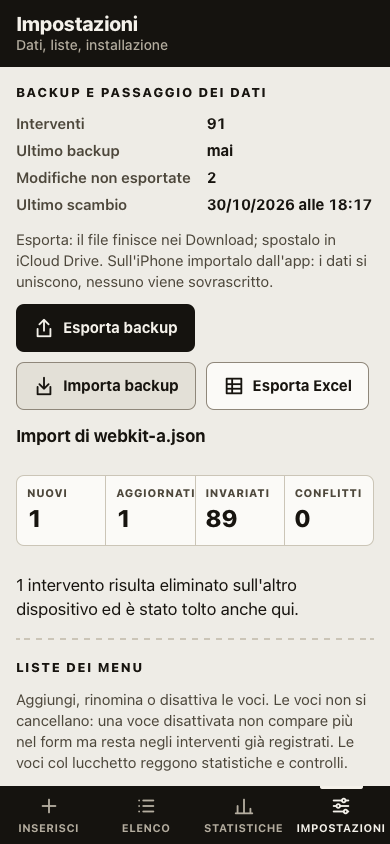
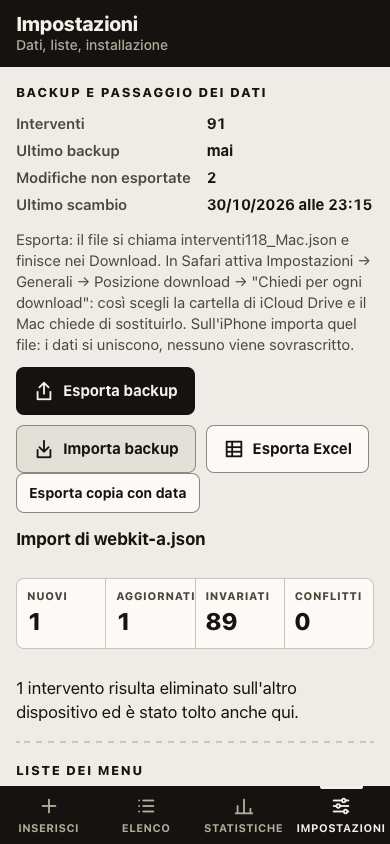
Impostazioni: esportazioni con nome fisso, copia con data, istruzioni per Safari e Chrome

diff --git a/js/ui/impostazioni.js b/js/ui/impostazioni.js
@@ -1,8 +1,8 @@
 // Impostazioni: backup e passaggio dei dati, liste dei menu, archiviazione, installazione.
 import {
-  stato, interventi, importaBackup, backupCorrente, registraEsportazione, aggiornaListe, nomeDispositivo, isIOS,
+  stato, interventi, importaBackup, backupCorrente, registraEsportazione, aggiornaListe, nomeDispositivo, tipoDispositivo, isIOS,
 } from '../stato.js';
-import { leggiBackup, nomeFileBackup } from '../core/merge.js';
+import { leggiBackup, nomeFileBackup, nomeFileDatato } from '../core/merge.js';
 import { aggiungiVoce, rinominaVoce, impostaAttiva, campiDellaLista } from '../core/liste.js';
 import { creaCartellaExcel } from '../core/excel.js';
 import { h, riempi, icona, impostaBanda, toast, conteggio, istante, dataBreve } from './dom.js';
@@ -17,19 +17,28 @@ const NOMI_LISTE = {
 let listaScelta = 'ospedale';
 let ultimoEsitoImport = null;
 
-/** Esporta il backup JSON (usato anche dal promemoria). */
-export async function esportaBackup() {
+const TOAST_BACKUP = { condiviso: 'Backup pronto: controlla di averlo salvato su File', salvato: 'Backup salvato', scaricato: 'Backup scaricato' };
+const TOAST_EXCEL = { condiviso: 'File Excel pronto', salvato: 'File Excel salvato', scaricato: 'File Excel scaricato' };
+const haFinestraSalvataggio = () => typeof window.showSaveFilePicker === 'function';
+
+async function salvaBackup(nome, opzioni) {
   try {
     const adesso = new Date();
     const blob = new Blob([JSON.stringify(backupCorrente(adesso))], { type: 'application/json' });
-    const come = await salvaFile(blob, nomeFileBackup(adesso));
+    const come = await salvaFile(blob, nome, opzioni);
     if (come === 'annullato') return;
     await registraEsportazione(adesso);
-    toast(come === 'condiviso' ? 'Backup pronto: controlla di averlo salvato su File' : 'Backup scaricato');
+    toast(TOAST_BACKUP[come]);
   } catch (errore) {
     toast(`Backup non riuscito: ${errore.message}`);
   }
 }
+
+/** Esporta il backup JSON con il nome fisso del dispositivo (usato anche dal promemoria). */
+export const esportaBackup = () => salvaBackup(nomeFileBackup(tipoDispositivo()), { ricordo: 'fileBackup' });
+
+/** Copia storica con data e ora nel nome: mai ricordata, la finestra si apre ogni volta. */
+const esportaCopiaDatata = () => salvaBackup(nomeFileDatato());
 
 async function esportaExcel() {
   try {
@@ -37,11 +46,17 @@ async function esportaExcel() {
     const XLSX = window.XLSX;
     const dati = XLSX.write(creaCartellaExcel(XLSX, stato.record), { type: 'array', bookType: 'xlsx' });
     const blob = new Blob([dati], { type: 'application/vnd.openxmlformats-officedocument.spreadsheetml.sheet' });
-    const come = await salvaFile(blob, nomeFileBackup(new Date()).replace(/\.json$/, '.xlsx'));
-    if (come !== 'annullato') toast(come === 'condiviso' ? 'File Excel pronto' : 'File Excel scaricato');
+    const come = await salvaFile(blob, nomeFileBackup(tipoDispositivo(), 'xlsx'), { ricordo: 'fileExcel' });
+    if (come !== 'annullato') toast(TOAST_EXCEL[come]);
   } catch (errore) {
     toast(`Export Excel non riuscito: ${errore.message}`);
   }
+}
+
+function spiegazioneBackup() {
+  if (isIOS()) return 'Esporta: si apre la condivisione, scegli "Salva su File" e la stessa cartella di iCloud Drive dell\'altra volta: iOS chiede di sostituire interventi118_iPhone.json. Sul Mac importa quel file: i dati si uniscono, nessuno viene sovrascritto.';
+  if (haFinestraSalvataggio()) return 'Esporta: la prima volta scegli dove salvare interventi118_Mac.json, per esempio in iCloud Drive; le volte dopo l\'app lo riscrive lì da sola. Sull\'iPhone importa quel file: i dati si uniscono, nessuno viene sovrascritto.';
+  return 'Esporta: il file si chiama interventi118_Mac.json e finisce nei Download. In Safari attiva Impostazioni → Generali → Posizione download → "Chiedi per ogni download": così scegli la cartella di iCloud Drive e il Mac chiede di sostituirlo. Sull\'iPhone importa quel file: i dati si uniscono, nessuno viene sovrascritto.';
 }
 
 export function mostra(main) {
@@ -59,14 +74,14 @@ export function mostra(main) {
         h('dt', {}, 'Ultimo backup'), h('dd', {}, istante(stato.meta.ultimoBackup)),
         h('dt', {}, 'Modifiche non esportate'), h('dd', {}, conteggio(stato.meta.modificheNonEsportate ?? 0)),
         h('dt', {}, 'Ultimo scambio'), h('dd', {}, istante(stato.meta.ultimaSincronizzazione))),
-      h('p', {}, isIOS()
-        ? 'Esporta: si apre la condivisione, scegli "Salva su File" e poi iCloud Drive. Sul Mac importa quel file: i dati si uniscono, nessuno viene sovrascritto.'
-        : 'Esporta: il file finisce nei Download; spostalo in iCloud Drive. Sull\'iPhone importalo dall\'app: i dati si uniscono, nessuno viene sovrascritto.'),
+      h('p', {}, spiegazioneBackup()),
       h('div', { class: 'azioni' },
         h('button', { type: 'button', class: 'bottone primario', onclick: esportaBackup }, icona('esporta'), 'Esporta backup'),
         h('button', { type: 'button', class: 'bottone', onclick: () => scegli.click() }, icona('importa'), 'Importa backup'),
         h('button', { type: 'button', class: 'bottone', onclick: esportaExcel }, icona('tabella'), 'Esporta Excel'),
         scegli),
+      h('div', { class: 'azioni' },
+        h('button', { type: 'button', class: 'bottone piccolo', onclick: esportaCopiaDatata }, 'Esporta copia con data')),
       ultimoEsitoImport ? riepilogoImport(ultimoEsitoImport) : null,
     );
   }
@@ -199,6 +214,8 @@ export function mostra(main) {
 
   main.append(sezioneDati, sezioneListe, sezioneArchivio, guida, info);
   disegnaTutto();
+  // la finestra di salvataggio di Chrome vuole un tocco recente: SheetJS dev'essere già pronto al clic su Esporta Excel
+  if (haFinestraSalvataggio()) caricaScript(SHEETJS).catch(() => {});
   return { aggiorna: () => { disegnaDati(); disegnaArchivio(); } };
 }
 
